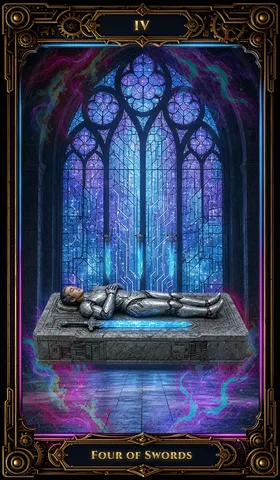
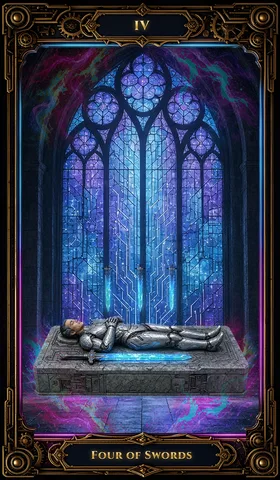
v2: publish real layers for cards 53 54

Changed region(s): [[0.0857, 0.4688, 0.9429, 0.875]]

diff --git a/v2/PROMPTS.md b/v2/PROMPTS.md
@@ -349,8 +349,15 @@ Nota (12/10, tarde): look.py gera figure.png a partir de figure_key.png (neon se
 - finish: DEFRINGE=4 EDGE_CHOKE=5 FG_BOOST=0.6 FG_BODY=0.8.
 
 ## 53 Quatro de Espadas
-- figure (FIG_FIT=1080,2450,995 FIG_KEEPALL=1 KEY_STRICT=1: ~92% card width, lower-middle; three hanging swords kept, their cut tops feathered 40 px): knight in silver tech armor resting on a carved stone tech tomb, a glowing sword below him, three swords hanging above (asset 376132fd).
+- figure (FIG_FIT=1080,2750,995 FIG_KEEPALL=1 KEY_STRICT=1: ~92% card width, tomb base resting on the chapel floor (no floating); three hanging swords kept, their cut tops feathered 40 px): knight in silver tech armor resting on a carved stone tech tomb, a glowing sword below him, three swords hanging above (asset 376132fd).
 - bg (crop): cyber chapel, centered on the circuit stained-glass window (asset c1f575b5).
 - mid: vazio (aura do fg gerada pelo fin.py).
 - fg (bottom): reuse of asset 6ba7549a, mirrored, hue +150 degrees with green hues folded to cyan/magenta.
-- finish: DEFRINGE=4 EDGE_CHOKE=5 FG_BOOST=0.4 FG_BODY=0.85 FIN_HEADBOX=270,2180,200 (calm, light energy).
+- finish: DEFRINGE=4 EDGE_CHOKE=5 FG_BOOST=0.4 FG_BODY=0.85 FIN_HEADBOX=430,2640,220 (calm, light energy).
+
+## 54 Cinco de Espadas
+- figure (fig 0.9, FIG_ANCHOR=base, FIG_MAXW=2160, FIG_KEEPALL=1, KEY_STRICT=1: grounded, rock pile at the bottom; swords over the shoulder kept): red-haired man in a black circuit trench coat standing on a pile of dark rocks, three blue crystal swords over his shoulder and two on the ground (asset ca48af3c).
+- bg (crop x 440-845 of 1280): stormy coast with two distant walking figures and a neon city at right (asset d4ad7d99).
+- mid: vazio (aura do fg gerada pelo fin.py).
+- fg (bottom): reuse of asset 6ba7549a, flipped both ways, hue -100 degrees with green hues folded to cyan/magenta.
+- finish: DEFRINGE=4 EDGE_CHOKE=5 FG_BOOST=0.5 FG_BODY=0.85.
